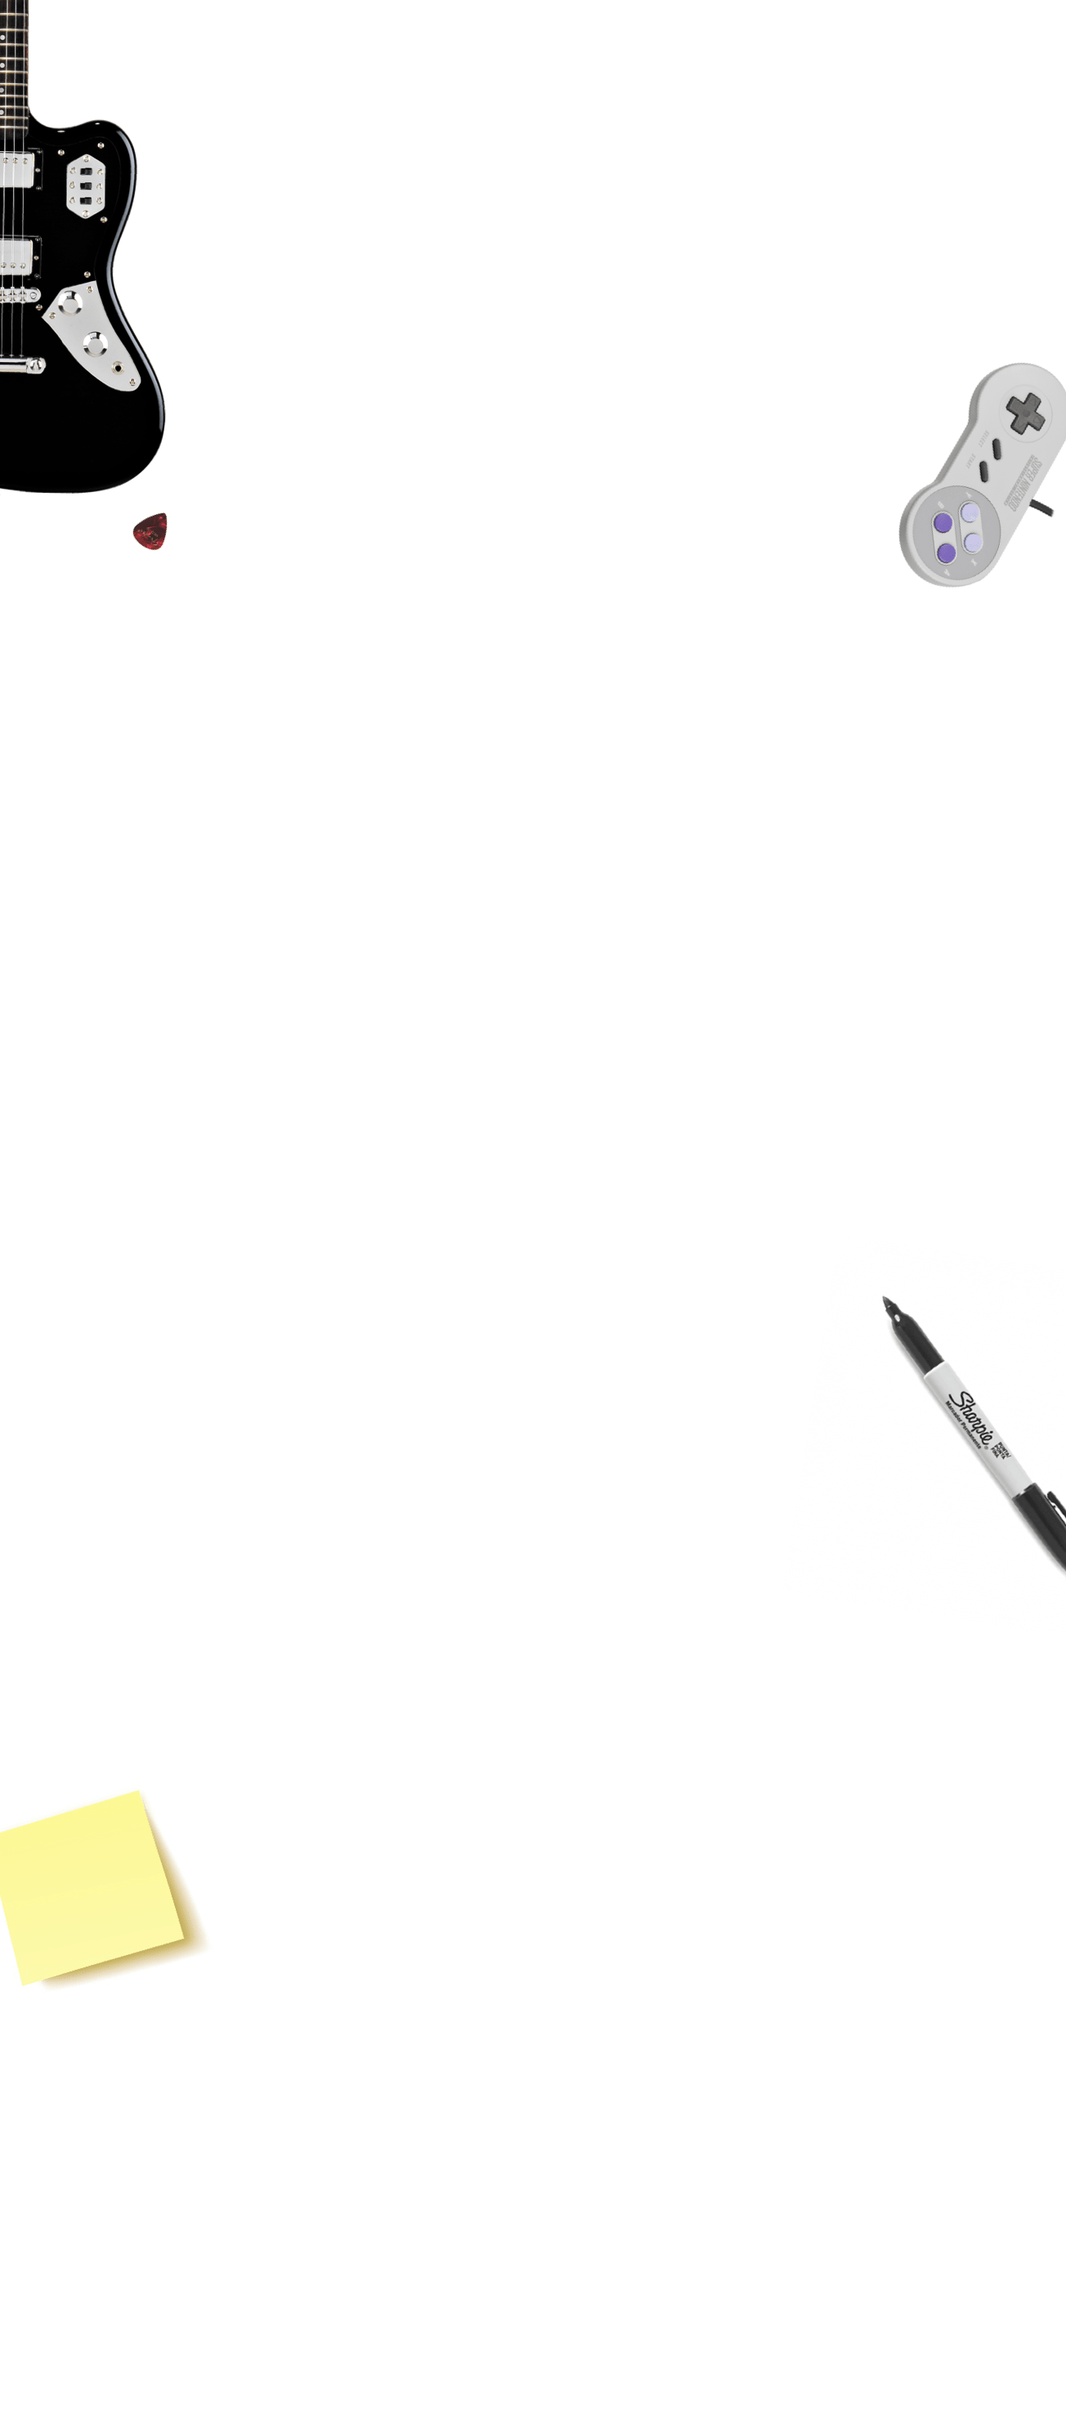
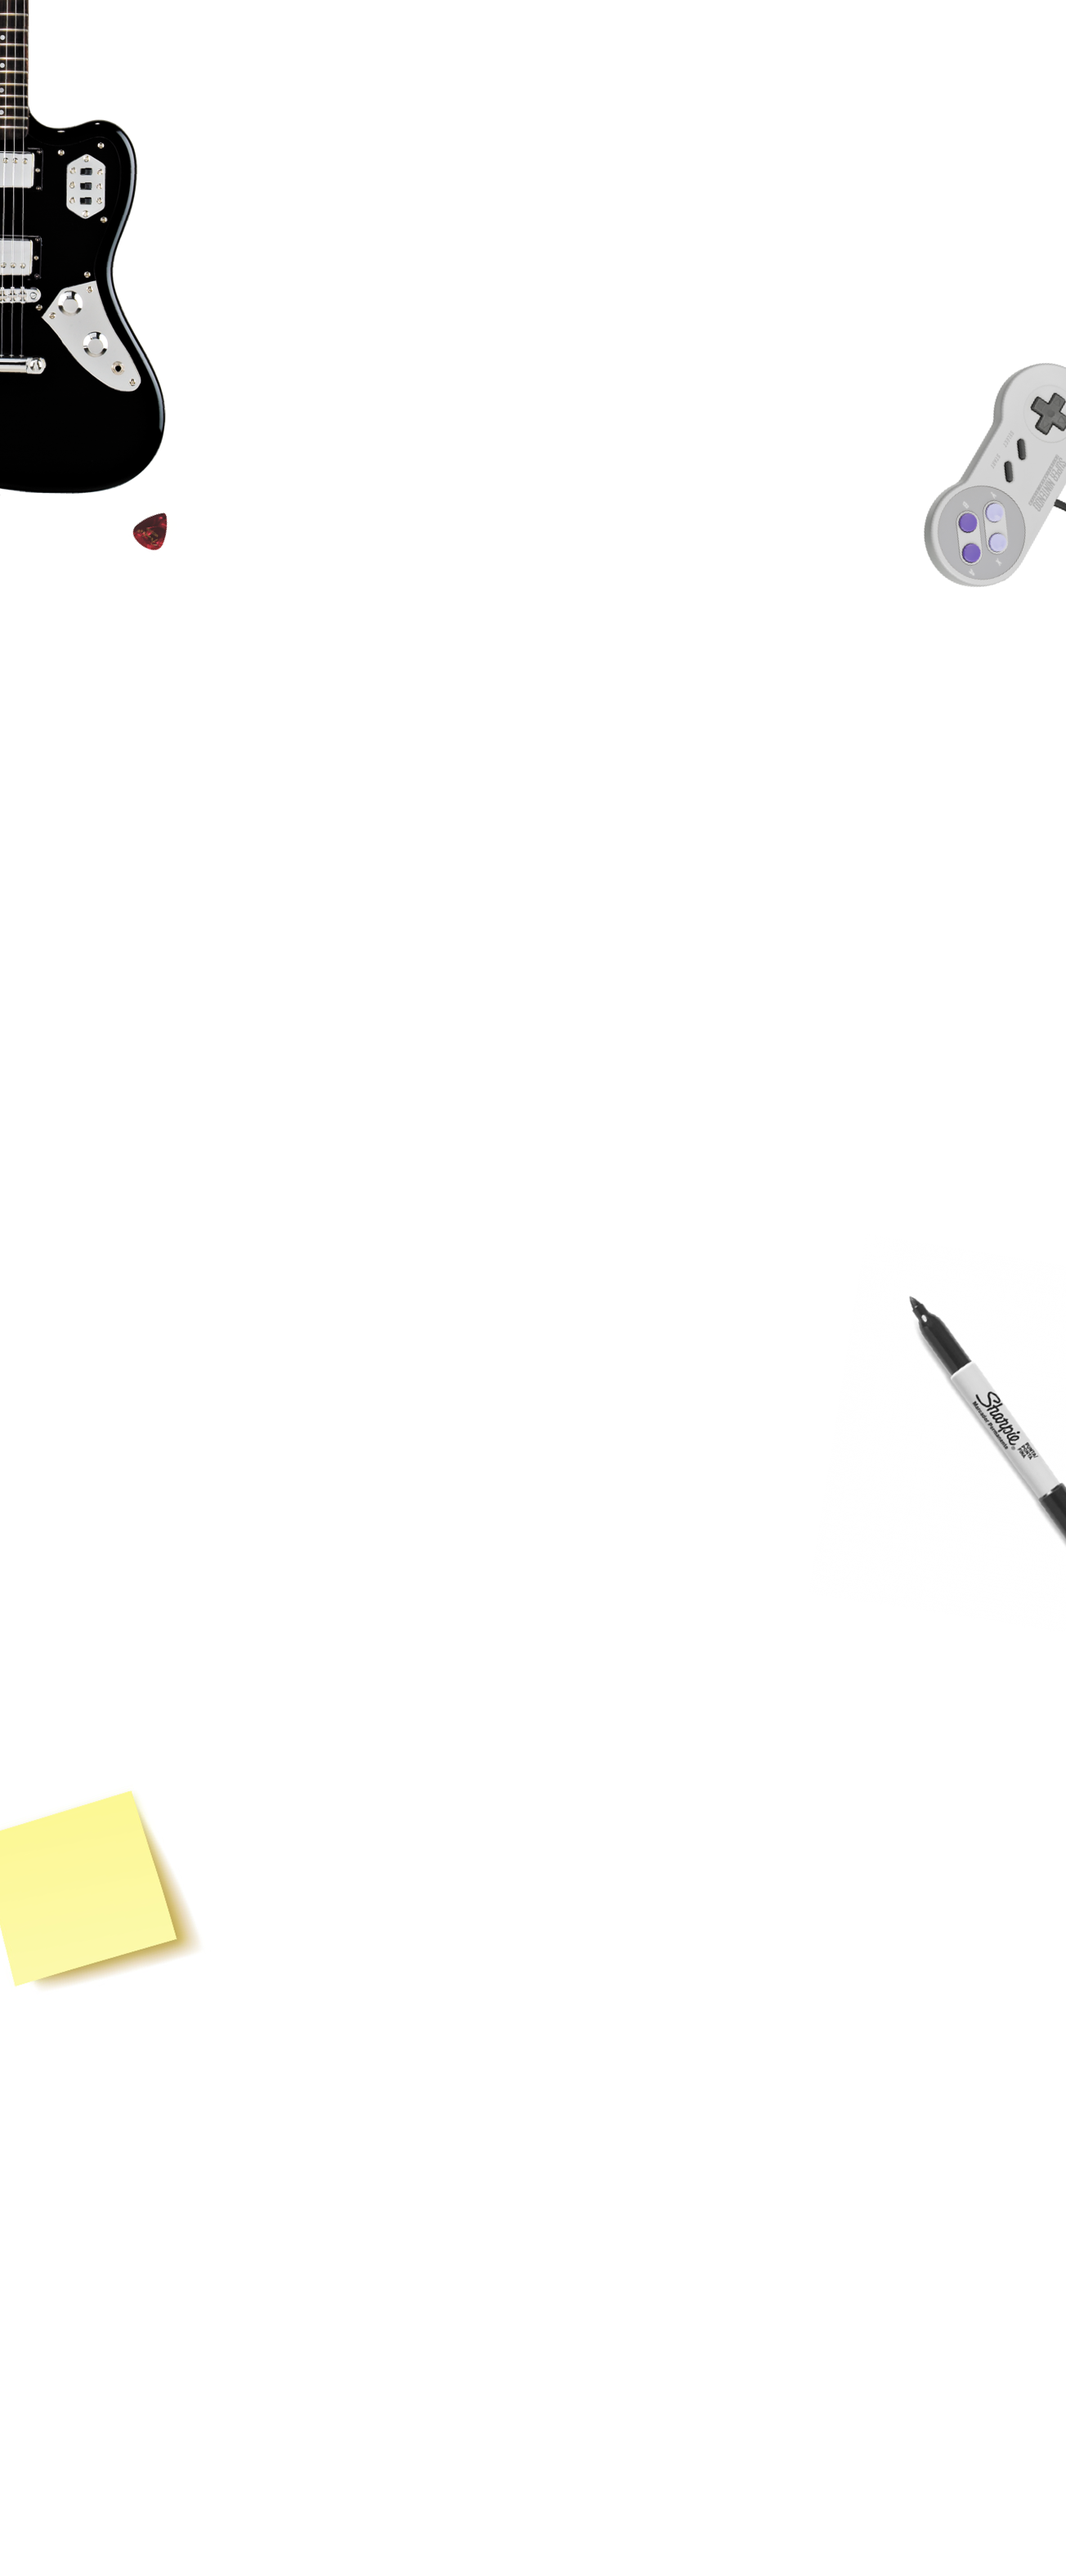
responsive big bg

diff --git a/assets/css/main.css b/assets/css/main.css
@@ -1780,7 +1780,6 @@
 				#header nav {
 					display: none;
 				}
-
 		}
 
 	body {
@@ -1792,7 +1791,6 @@
 			body {
 				padding-top: 2.5em;
 			}
-
 		}
 
 /* Main */
@@ -2155,8 +2153,20 @@ i {
 		color: rgb(57,69,74);
 	}
 
+	@media screen and (max-width: 400px) {
+		#intro {
+			background: url("images/overla.png"), url("../../images/heromatts.png");
+			background-size: 256px 256px, cover;
+			background-attachment: fixed, fixed;
+			background-position: top left, bottom center;
+			background-repeat: repeat, no-repeat;
+		}
+	}
+
 	#work {
 		background: url("../../images/objects.png");
+		background-size: cover;
+		background-position: top left, bottom center;
 		background-repeat: no-repeat;
 	}
 
@@ -2215,14 +2225,17 @@ i {
 			background: none;
 			background-color: white;
 		}
+		#work p {
+			text-align: center;
+		}
 	}
 
-@media screen and (max-width: 736px) {
+/* @media screen and (max-width: 736px) {
 
 	#work{
 		background: url("../../images/objectsmobile.png");
 		background-repeat: no-repeat;
-	}
+	} */
 
 	#work .diamond img {
 		width: 95%;
@@ -2644,6 +2657,22 @@ text-decoration: underline;
 
 }
 
+@media screen and (max-width: 400px) {
+	#pillar .screens img {
+		width: 350px;
+		margin-left: 1em;
+	}
+
+	#pillar .links img {
+		margin-bottom: 1em;
+		margin-left: 5.6em;
+	}
+	.smallp {
+		font-size: .85em;
+		margin-left: .6em;
+	}
+}
+
 /* etsy */
 
 #etsy {
@@ -2759,6 +2788,21 @@ text-decoration: underline;
 	}
 }
 
+@media screen and (max-width: 400px) {
+	#etsy .mobile img {
+		margin-left: -10em;
+	}
+
+	#etsy .links img {
+		margin-bottom: 1em;
+		margin-left: 5.6em;
+	}
+	.smallp {
+		font-size: .85em;
+		margin-left: .6em;
+	}
+}
+
 /* relay */
 
 #relay {
@@ -2868,6 +2912,21 @@ text-decoration: underline;
 	#relay .links a {
 		opacity: 1;
 		filter: grayscale(0);
+	}
+}
+
+@media screen and (max-width: 400px) {
+	#relay .screens img {
+		margin-left: 1em;
+	}
+
+	#relay .links img {
+		margin-bottom: 1em;
+		margin-left: 5.6em;
+	}
+	.smallp {
+		font-size: .85em;
+		margin-left: .6em;
 	}
 }
 
@@ -2981,6 +3040,22 @@ text-decoration: underline;
 	#nexgen .links a {
 		opacity: 1;
 		filter: grayscale(0);
+	}
+}
+
+@media screen and (max-width: 400px) {
+	#nexgen .screens img {
+		width: 350px;
+		margin-left: 1em;
+	}
+
+	#nexgen .links img {
+		margin-bottom: 1em;
+		margin-left: 5.6em;
+	}
+	.smallp {
+		font-size: .85em;
+		margin-left: .6em;
 	}
 }
 
@@ -3512,6 +3587,104 @@ h4 {
 		height: 7%;
 		margin-left: 6em;
 	}
+}
+
+@media screen and (max-width: 400px) {
+	.title h2 {
+		font-size: 1.2em;
+	}
+	.title {
+		display: flex;
+		justify-content: flex-start;
+		width: 100%;
+		margin-left: 3.5em;
+	}
+
+	#mplay {
+		width: 10%;
+		height: 10%;
+		margin-left: .8em;
+	}
+
+ #stash .threetop  {
+	 display: inline-block;
+	 width: 40%;
+	 height: 10%;
+	 margin-top: 1em;
+ }
+
+ #stash .threetop img {
+	 padding-bottom: 2em;
+	 margin-left: -7em;
+ }
+
+#stash .wrath {
+	width: 85%;
+}
+
+.wrath img {
+	width: 120%;
+	height: 120%;
+	margin-left: 0;
+}
+
+#stash .doodles {
+	width: 100%;
+	display: flex;
+}
+
+.doodles img {
+	width: 120%;
+	height: 120%;
+	margin-left: -2em;
+}
+
+#stash .monster {
+	width: 100%;
+	display: flex;
+}
+
+.monster img {
+	width: 100%;
+	height: 100%;
+	margin-left: 0;
+}
+
+#stash .pixel {
+	display: flex;
+	justify-content: space-between;
+	padding-top: 4em;
+}
+
+.pixel img {
+	width: 200px;
+	height: 200px;
+	margin-left: -1em;
+}
+
+#stash .sverige {
+	display: flex;
+	justify-content: space-around;
+	padding-top: 4em;
+}
+
+.sverige img {
+	width: 250px;
+	height: 250px;
+	margin-left: 1em;
+}
+
+#stash .kstad {
+	display: flex;
+	justify-content: space-around;
+	padding-top: 1em;
+}
+
+.kstad img {
+	width: 250px;
+	height: 250px;
+	margin-left: 1em;
+}
 }
 
 		#contact .box {
